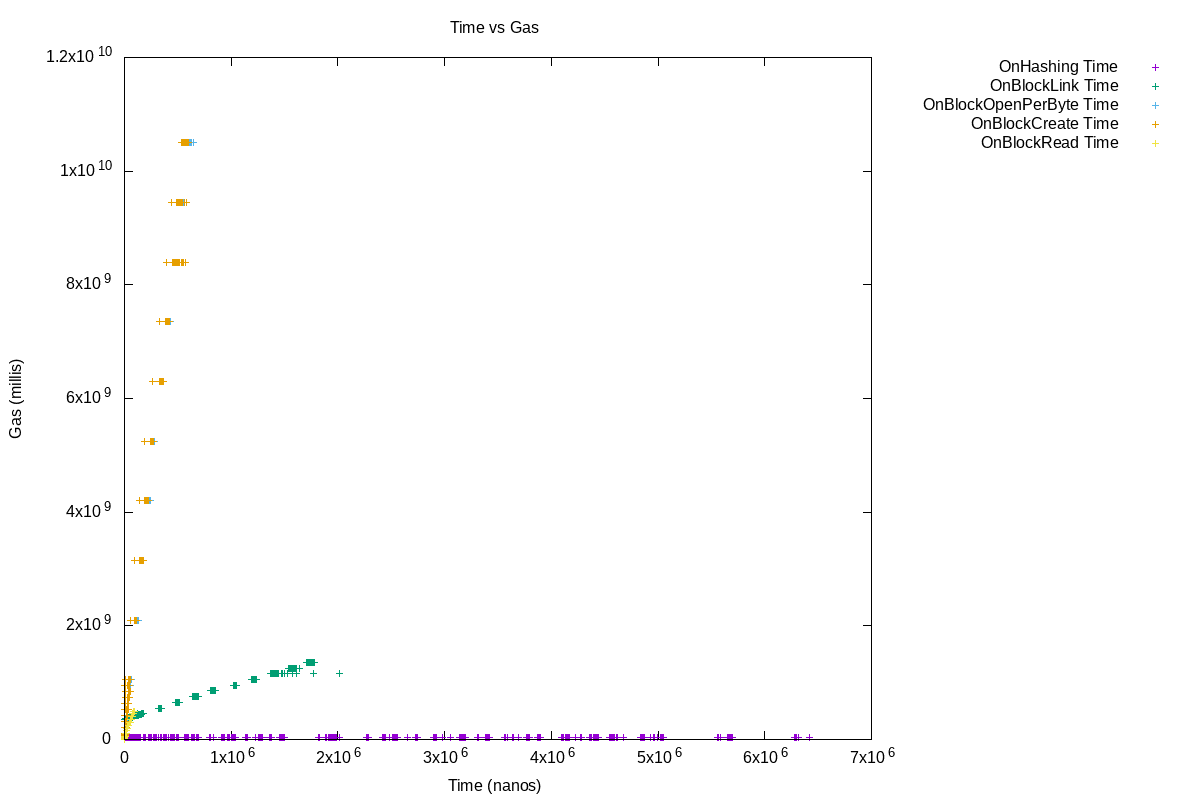
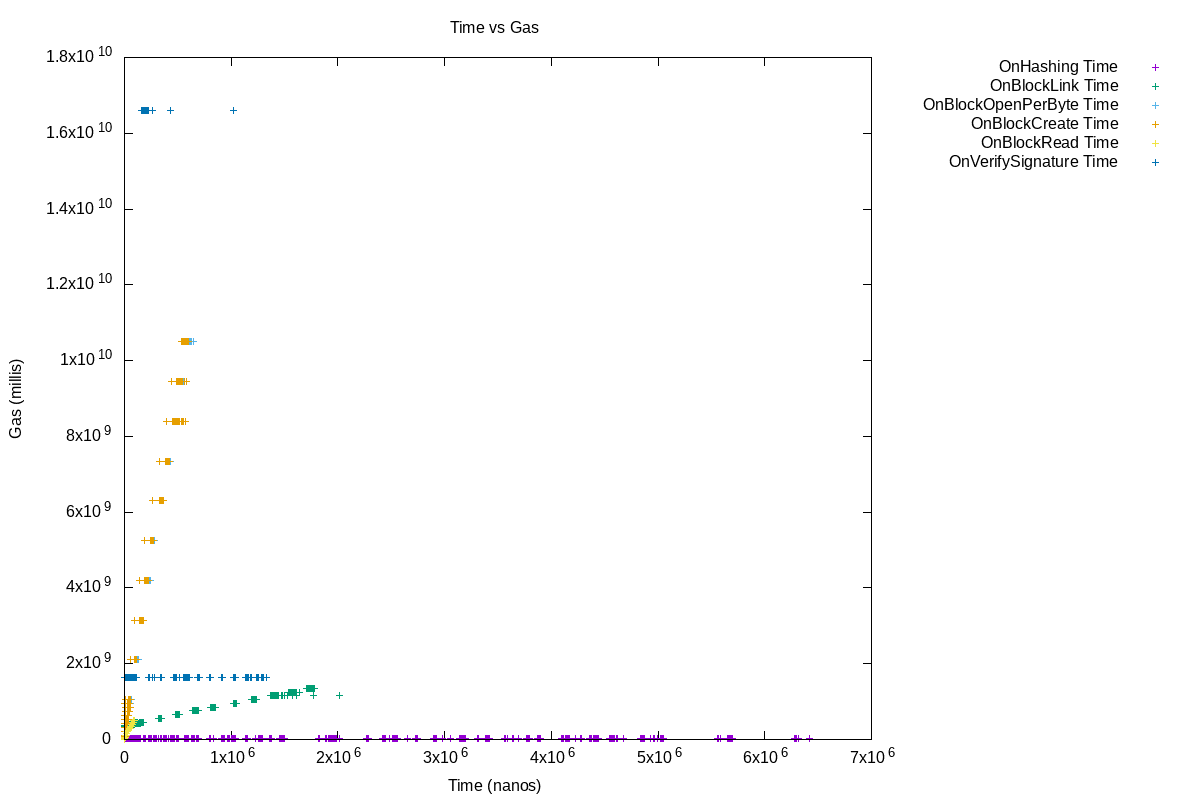
GAS-1160: OnVerifySignature with fake signatures.

diff --git a/testing/calibration/contract/fil-gas-calibration-actor/src/lib.rs b/testing/calibration/contract/fil-gas-calibration-actor/src/lib.rs
@@ -3,7 +3,9 @@ use cid::multihash::Code;
 use fvm_ipld_encoding::{RawBytes, DAG_CBOR};
 use fvm_sdk::message::params_raw;
 use fvm_sdk::vm::abort;
+use fvm_shared::address::{Address, Protocol};
 use fvm_shared::crypto::hash::SupportedHashes;
+use fvm_shared::crypto::signature::{Signature, SignatureType, BLS_SIG_LEN, SECP_SIG_LEN};
 use fvm_shared::error::ExitCode;
 use num_derive::FromPrimitive;
 use num_traits::FromPrimitive;
@@ -12,6 +14,9 @@ use serde::{Deserialize, Serialize};
 
 include!(concat!(env!("OUT_DIR"), "/wasm_binary.rs"));
 
+/// Just doing a few mutations in an array to make the hashes different.
+const MUTATION_COUNT: usize = 10;
+
 #[derive(FromPrimitive)]
 #[repr(u64)]
 pub enum Method {
@@ -19,6 +24,8 @@ pub enum Method {
     OnHashing = 1,
     /// Put and get random data to measure `OnBlock*`.
     OnBlock,
+    /// Try (and fail) to verify random data (fake signatures) with a public key.
+    OnVerifySignature,
 }
 
 #[derive(Serialize, Deserialize)]
@@ -33,6 +40,14 @@ pub struct OnHashingParams {
 pub struct OnBlockParams {
     pub iterations: usize,
     pub size: usize,
+    pub seed: u64,
+}
+
+#[derive(Serialize, Deserialize)]
+pub struct OnVerifySignatureParams {
+    pub iterations: usize,
+    pub size: usize,
+    pub signer: Address,
     pub seed: u64,
 }
 
@@ -75,6 +90,9 @@ fn dispatch(method: Method, params_ptr: u32) -> Result<()> {
     match method {
         Method::OnHashing => on_hashing(read_params::<OnHashingParams>(params_ptr)?),
         Method::OnBlock => on_block(read_params::<OnBlockParams>(params_ptr)?),
+        Method::OnVerifySignature => {
+            on_verify_signature(read_params::<OnVerifySignatureParams>(params_ptr)?)
+        }
     }
 }
 
@@ -82,7 +100,7 @@ fn on_hashing(p: OnHashingParams) -> Result<()> {
     let h = p.hasher().ok_or(anyhow!("unknown hasher"))?;
     let mut data = random_bytes(p.size, p.seed);
     for i in 0..p.iterations {
-        random_mutations(&mut data, p.seed + i as u64, 10usize);
+        random_mutations(&mut data, p.seed + i as u64, MUTATION_COUNT);
         fvm_sdk::crypto::hash(h, &data);
     }
     Ok(())
@@ -93,7 +111,7 @@ fn on_block(p: OnBlockParams) -> Result<()> {
     let mut cids = Vec::new();
 
     for i in 0..p.iterations {
-        random_mutations(&mut data, p.seed + i as u64, 10usize);
+        random_mutations(&mut data, p.seed + i as u64, MUTATION_COUNT);
 
         let cid = fvm_sdk::ipld::put(Code::Blake2b256.into(), 32, DAG_CBOR, data.as_slice())?;
 
@@ -109,6 +127,37 @@ fn on_block(p: OnBlockParams) -> Result<()> {
     // Read the data back so we have stats about that too.
     for i in 0..p.iterations {
         let _ = fvm_sdk::ipld::get(&cids[i])?;
+    }
+
+    Ok(())
+}
+
+fn on_verify_signature(p: OnVerifySignatureParams) -> Result<()> {
+    let sig_type = match p.signer.protocol() {
+        Protocol::BLS => SignatureType::BLS,
+        Protocol::Secp256k1 => SignatureType::Secp256k1,
+        other => return Err(anyhow!("unexpected protocol: {other}")),
+    };
+
+    let sig_size = match sig_type {
+        SignatureType::BLS => BLS_SIG_LEN,
+        SignatureType::Secp256k1 => SECP_SIG_LEN,
+    };
+
+    let mut data = random_bytes(p.size, p.seed);
+    let mut sig = Signature {
+        sig_type,
+        bytes: random_bytes(sig_size, p.seed),
+    };
+
+    for i in 0..p.iterations {
+        random_mutations(&mut data, p.seed + i as u64, MUTATION_COUNT);
+        random_mutations(&mut sig.bytes, p.seed + i as u64, MUTATION_COUNT);
+
+        let is_valid = fvm_sdk::crypto::verify_signature(&sig, &p.signer, &data)?;
+
+        // Just a sanity check. From a runtime perspective it shouldn't matter if it's a valid signature.
+        assert_eq!(false, is_valid)
     }
 
     Ok(())

diff --git a/testing/calibration/src/bin/on_hashing.rs b/testing/calibration/src/bin/on_hashing.rs
@@ -1,10 +1,12 @@
 #![feature(slice_group_by)]
 
 use fil_gas_calibration_actor::{Method, OnHashingParams};
-use fvm::trace::ExecutionEvent;
 use fvm_gas_calibration::*;
 use fvm_shared::crypto::hash::SupportedHashes;
 use rand::{thread_rng, Rng};
+
+const CHARGE_NAME: &str = "OnHashing";
+const METHOD: Method = Method::OnHashing;
 
 fn main() {
     let hashers = vec![
@@ -15,16 +17,7 @@ fn main() {
         SupportedHashes::Ripemd160,
     ];
 
-    let mut sizes: Vec<usize> = vec![0];
-    sizes.extend(
-        [10, 100, 1_000, 10_000, 100_000]
-            .into_iter()
-            .flat_map(|i| (1..10).map(move |m| m * i)),
-    );
-    sizes.push(1_000_000);
-
-    //let sizes: Vec<usize> = (0..=100).map(|i| i * 10000).collect();
-
+    let sizes = common_sizes();
     let iterations = 100;
 
     let mut te = instantiate_tester();
@@ -41,21 +34,9 @@ fn main() {
                 seed: rng.gen(),
             };
 
-            let ret = te.execute_or_die(Method::OnHashing as u64, &params);
+            let ret = te.execute_or_die(METHOD as u64, &params);
 
-            let mut iter_obs: Vec<_> = ret
-                .exec_trace
-                .iter()
-                .filter_map(|t| match t {
-                    ExecutionEvent::GasCharge(charge) if charge.name == "OnHashing" => Some(Obs {
-                        label: label.clone(),
-                        elapsed_nanos: charge.elapsed.get().unwrap().as_nanos(),
-                        variables: vec![*size],
-                        compute_gas: charge.compute_gas.as_milligas(),
-                    }),
-                    _ => None,
-                })
-                .collect();
+            let mut iter_obs = collect_obs(ret, CHARGE_NAME, &label, *size);
 
             // According to the charts there is always an outlier with 10x runtime,
             // which can throw off the model. Maybe it's while some things are warming up.
@@ -71,5 +52,5 @@ fn main() {
         .map(|g| least_squares(g[0].label.to_owned(), g, 0))
         .collect::<Vec<_>>();
 
-    export("OnHashing", &obs, &regs).unwrap();
+    export(CHARGE_NAME, &obs, &regs).unwrap();
 }

diff --git a/testing/calibration/src/bin/on_verify_signature.rs b/testing/calibration/src/bin/on_verify_signature.rs
@@ -1,0 +1,62 @@
+#![feature(slice_group_by)]
+
+use bls_signatures::Serialize;
+use fil_gas_calibration_actor::{Method, OnVerifySignatureParams};
+use fvm_gas_calibration::*;
+use fvm_shared::address::Address;
+use fvm_shared::crypto::signature::SignatureType;
+use rand::{thread_rng, Rng};
+
+const CHARGE_NAME: &str = "OnVerifySignature";
+const METHOD: Method = Method::OnVerifySignature;
+
+fn main() {
+    let sig_types = vec![SignatureType::BLS, SignatureType::Secp256k1];
+
+    let sizes = common_sizes();
+    let iterations = 100;
+
+    let mut te = instantiate_tester();
+    let mut obs = Vec::new();
+    let mut rng = thread_rng();
+
+    for sig_type in sig_types.iter() {
+        let label = format!("{sig_type:?}");
+
+        let signer = match sig_type {
+            SignatureType::Secp256k1 => {
+                let sk = libsecp256k1::SecretKey::random(&mut rng);
+                let pk = libsecp256k1::PublicKey::from_secret_key(&sk);
+                Address::new_secp256k1(&pk.serialize()).unwrap()
+            }
+            SignatureType::BLS => {
+                let sk = bls_signatures::PrivateKey::generate(&mut rng);
+                let pk = sk.public_key();
+                Address::new_bls(&pk.as_bytes()).unwrap()
+            }
+        };
+
+        for size in sizes.iter() {
+            let params = OnVerifySignatureParams {
+                iterations,
+                size: *size,
+                signer,
+                seed: rng.gen(),
+            };
+
+            let ret = te.execute_or_die(METHOD as u64, &params);
+
+            let mut iter_obs = collect_obs(ret, CHARGE_NAME, &label, *size);
+            iter_obs = eliminate_outliers(iter_obs, 0.02, Eliminate::Top);
+
+            obs.extend(iter_obs);
+        }
+    }
+
+    let regs = obs
+        .group_by(|a, b| a.label == b.label)
+        .map(|g| least_squares(g[0].label.to_owned(), g, 0))
+        .collect::<Vec<_>>();
+
+    export(CHARGE_NAME, &obs, &regs).unwrap();
+}

diff --git a/testing/calibration/src/lib.rs b/testing/calibration/src/lib.rs
@@ -3,6 +3,7 @@ use std::path::{Path, PathBuf};
 
 use fvm::executor::{ApplyKind, ApplyRet, Executor};
 use fvm::gas::Gas;
+use fvm::trace::ExecutionEvent;
 use fvm_integration_tests::bundle;
 use fvm_integration_tests::dummy::DummyExterns;
 use fvm_integration_tests::tester::{Account, Tester};
@@ -222,6 +223,21 @@ pub fn least_squares(label: String, obs: &[Obs], var_idx: usize) -> RegressionRe
     }
 }
 
+pub fn collect_obs(ret: ApplyRet, name: &str, label: &str, size: usize) -> Vec<Obs> {
+    ret.exec_trace
+        .iter()
+        .filter_map(|t| match t {
+            ExecutionEvent::GasCharge(charge) if charge.name == name => Some(Obs {
+                label: label.to_owned(),
+                elapsed_nanos: charge.elapsed.get().unwrap().as_nanos(),
+                variables: vec![size],
+                compute_gas: charge.compute_gas.as_milligas(),
+            }),
+            _ => None,
+        })
+        .collect()
+}
+
 /// Drop a certain fraction of the observations with the highest time as outliers.
 pub fn eliminate_outliers(mut obs: Vec<Obs>, drop: f32, eliminate: Eliminate) -> Vec<Obs> {
     obs.sort_by_key(|obs| obs.elapsed_nanos);
@@ -238,4 +254,15 @@ pub enum Eliminate {
     Top,
     Bottom,
     Both,
+}
+
+pub fn common_sizes() -> Vec<usize> {
+    let mut sizes: Vec<usize> = vec![0];
+    sizes.extend(
+        [10, 100, 1_000, 10_000, 100_000]
+            .into_iter()
+            .flat_map(|i| (1..10).map(move |m| m * i)),
+    );
+    sizes.push(1_000_000);
+    sizes
 }

diff --git a/testing/calibration/src/bin/on_block.rs b/testing/calibration/src/bin/on_block.rs
@@ -9,15 +9,9 @@ use fvm_shared::error::ExitCode;
 use rand::{thread_rng, Rng};
 
 fn main() {
-    let mut sizes: Vec<usize> = vec![0];
-    sizes.extend(
-        [10, 100, 1_000, 10_000, 100_000]
-            .into_iter()
-            .flat_map(|i| (1..10).map(move |m| m * i)),
-    );
-    sizes.push(1_000_000);
-
+    let sizes = common_sizes();
     let iterations = 100;
+
     let mut all_obs: HashMap<String, Vec<Obs>> = Default::default();
 
     // NOTE: For actually modeling the effect of IO, we shouldn't be using the memory blockstore.
